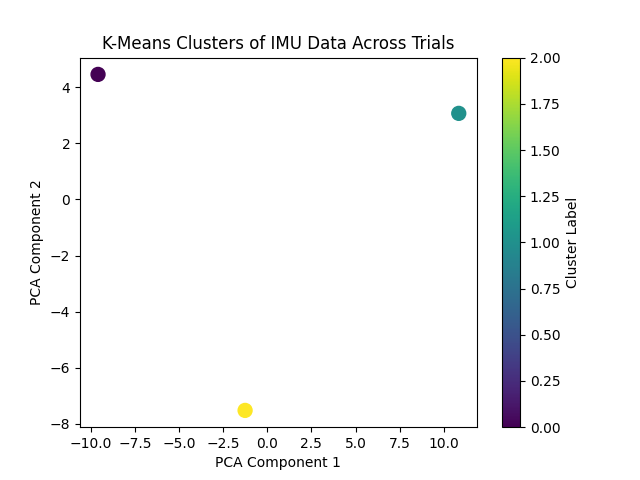
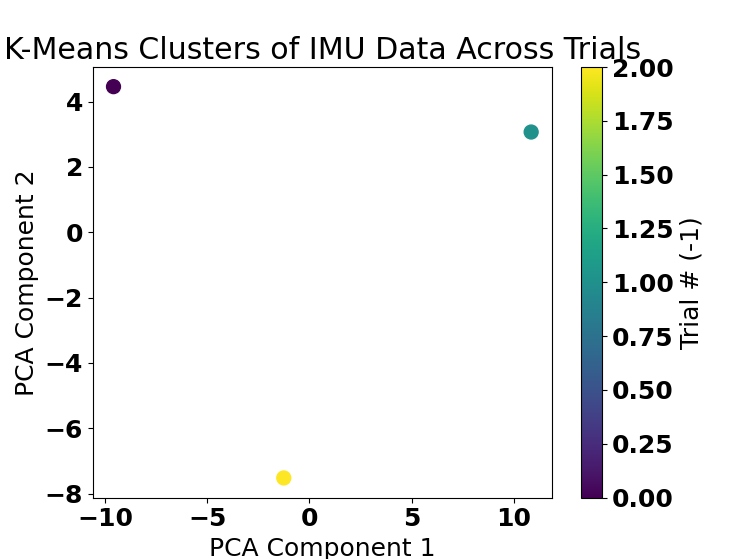
updated graphs

diff --git a/K-means Clustering.py b/K-means Clustering.py
@@ -90,7 +90,7 @@ X_pca = pca.fit_transform(X_scaled)
 
 font = {'family' : 'sans-serif',
         'weight' : 'bold',
-        'size'   : 22}
+        'size'   : 18}
 
 plt.rc('font', **font)
 
@@ -98,5 +98,5 @@ plt.scatter(X_pca[:, 0], X_pca[:, 1], c=cluster_labels, cmap='viridis', s=100)
 plt.title('K-Means Clusters of IMU Data Across Trials')
 plt.xlabel('PCA Component 1')
 plt.ylabel('PCA Component 2')
-plt.colorbar(label='Cluster Label')
+plt.colorbar(label='Trial # (-1)')
 plt.show()
